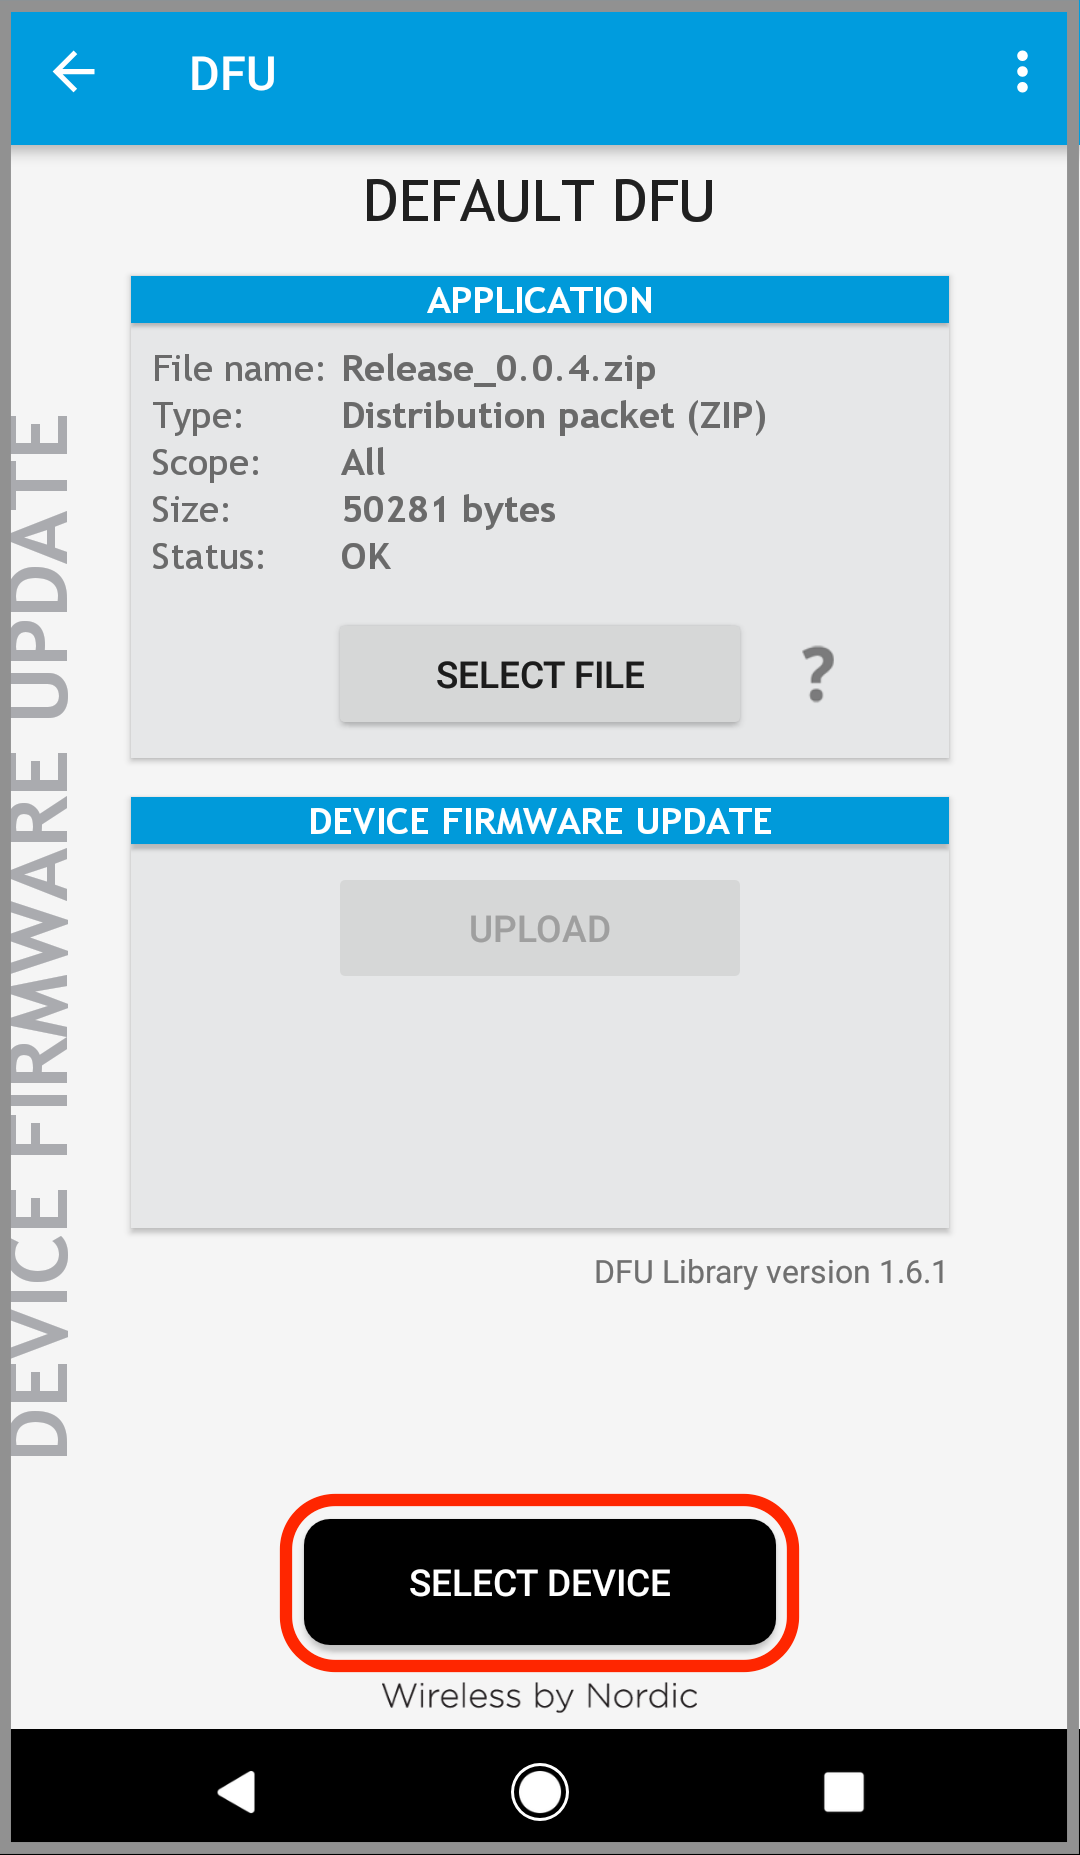
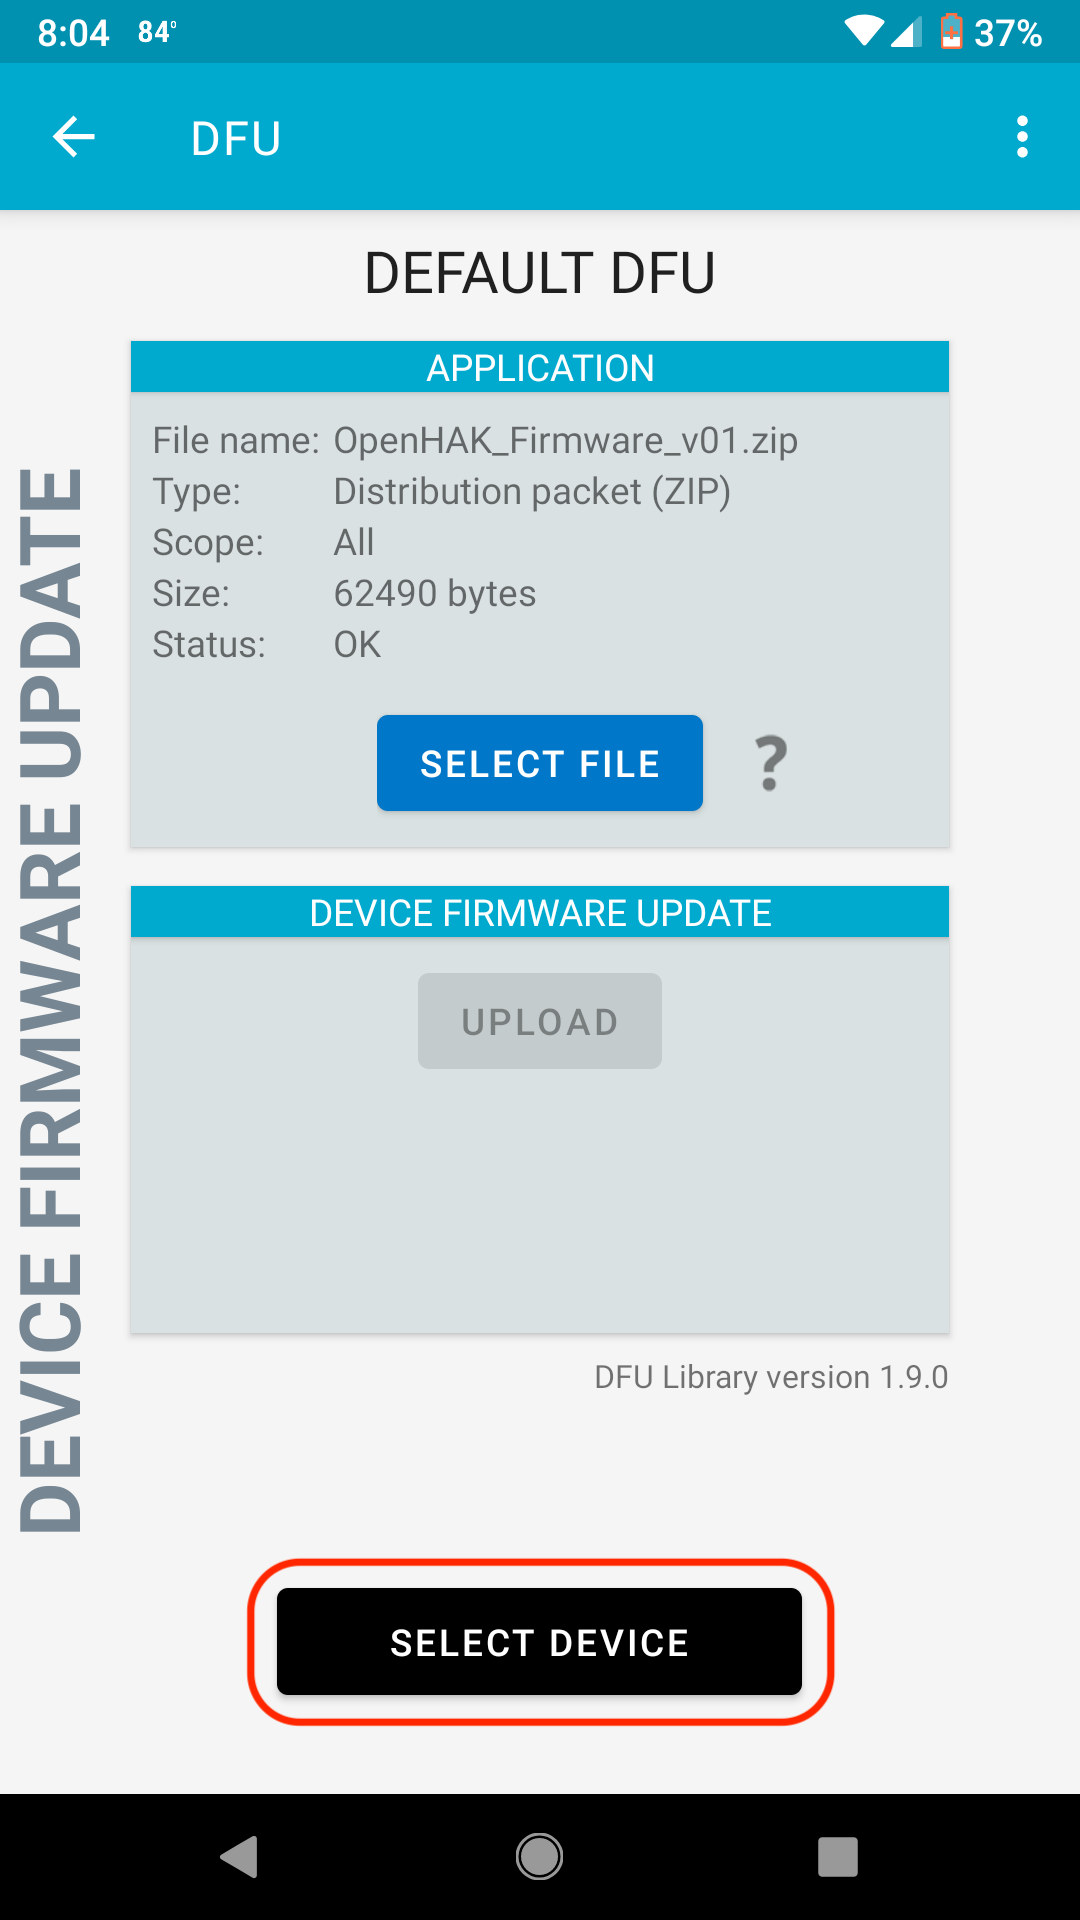
updated 'cause was old

diff --git a/Getting Started With Arduino.md b/Getting Started With Arduino.md
@@ -2,23 +2,30 @@
 
 # Getting started with Arduino firmware
 
-To create firmware to upload to your OpenHAK, you'll need to install to correct board files into the Arduino IDE
+To create firmware to upload to your OpenHAK, you'll need to install the correct board files into the Arduino IDE
+
 1. Open the Arduino IDE
 2. On a Mac, click on the Arduino menu and select preferences, on PC and Linux, select the File menu and select preferences
-3. Find the Additional Boards Managers URLs box and click the icon to the right of it
-4. On a new line, paste the OpenHAK boards json: https://raw.githubusercontent.com/OpenHAK/Simblee/master/package_openhak_index.json
+3. Find the `Additional Boards Managers URLs:` box and click the icon to the right of it
+4. On a new line, paste the OpenHAK boards json:
+
+	`https://raw.githubusercontent.com/OpenHAK/Simblee/master/package_openhak_index.json`
 5. Click OK
-6. Now click the tools menu, mouse over the "Board:" option, then select Boards manager
-7. This list should refresh and you'll be able to scroll down until you see the OpenHAK boards listed
-8. Click the install button and wait for the install to complete
-9. Now you can select the OpenHAK board from the Arduino Boards menu, and compile code for your OpenHAK!
+6. Now click the tools menu, mouse over the `Board:` option, then select `Boards manager`
+7. This list should take a moment to refresh and then you'll be able to scroll down until you see the OpenHAK boards listed, or just type OpenHAK in the search filed.
+8. Click the instal button and wait for the instal to complete
+9. Now you can select the OpenHAK board from the Arduino `Boards` menu, and compile code for your OpenHAK!
 
 
-## Getting code on your OpenHAK
-The easiest way, that also requires no additional hardware, is to use the OTA DFU method
-Find videos and a step by step guide here: https://github.com/OpenHAK/Docs/blob/master/Update%20OpenHAK%20Firmware.md
+## Getting code onto your OpenHAK
+The easiest way, that also requires no additional hardware, is to use the OTA DFU method.
+Find videos and a step by step guide [here](https://github.com/OpenHAK/Docs/blob/master/Update%20OpenHAK%20Firmware.md)
 
-### Using FTDI
-You need a 3.3v FTDI and the OpenHAK accessory cable
-Connection guide coming soon!!
+### Other Stuff
+If you program code OTA but fail to include the OTAbootlader librarey, you will need a 3.3v FTDI and an OpenHAK accessory cable in order to re-flash the board. Please, **always** #include the OTAbootloader code!
+
+* insert pic of hardware pinout with specs and links to male header
+* if using SparkFun library comment out line 147 and another one...
+	* `_i2cPort->setClock(i2cSpeed);`
+
 

diff --git a/Update OpenHAK Firmware.md b/Update OpenHAK Firmware.md
@@ -10,23 +10,23 @@
 
 ## Step One
 
-### Downlad out latest release to your phone, [OpenHAK 0.0.4](https://github.com/OpenHAK/OHAK_firmware/blob/master/Release_0.0.4.zip).
+### Downlad out latest release to your phone, [OpenHAK 0.1.0](https://github.com/OpenHAK/OpenHAK_Firmware/blob/master/OpenHAK_Firmware_v01/OpenHAK_Firmware_v01.zip).
 
 ![github/openhak](assets/new_release.png)
 
-### If you have trouble, you can also email the zip file to yourself, and store it on your phone. The hardest part about this step is making sure that once you download the .zip you can find it wherever the phone has saved it.
+### If you have trouble, you can also email the zip file to yourself, and store it on your phone. The hardest part about this step is making sure that once you download the .zip you can find it wherever the phone-thing has saved it.
 
 ## Step Two
-### Download the nRF Toolbox app from your favorite app store. A direct search for `nRF Toolbox` should bring it right to you. This app has the ability to connect to your OpenHAK and do all kinds of things, including Device Firmware Update (DFU). Once it downloads, open it up. On first launch, you'll get asked to let the app access stuff on your phone. Just say yes to that. Once you launch it, the main screen of the app offers you some tools to choose from. Choose DFU to continue this guide. 
+### Download the nRF Toolbox app from your favorite app store. A direct search for `nRF Toolbox` should bring it right to you. This app has the ability to connect to your OpenHAK and do all kinds of things, including Device Firmware Update (DFU). Install the app, and open it up. On first launch, you'll get asked to let the app access stuff on your phone. Just say yes to that. Once you launch it, the main screen of the app offers you some tools to choose from. Choose DFU to continue this guide. 
 
 
 ![DFU Tool](assets/DFUtool.png)
 
-### Now it's time to go find the .zip file of our software release. First, the app will ask you what you're doing. Tell it that you're sending a 'Distribution packet (ZIP)', then press OK.
+### Now it's time to go find the .zip file of our software release. First, the app will ask you what you're doing. Tell it that you're sending a `Distribution packet (ZIP)`, then press OK.
 
 ![DistPack](assets/DistPack.png)
 
-### I found My file in the Downloads folder of my Pixel.
+### I found My file in the Downloads folder of my Pixel. If you use DropBox, for example, that can be a handy place to store things too. The Toolbox app seems to remember the last file you opened from, so it's good to keep your files tidy.
 
 ![findFile](assets/findFile.png)
 
